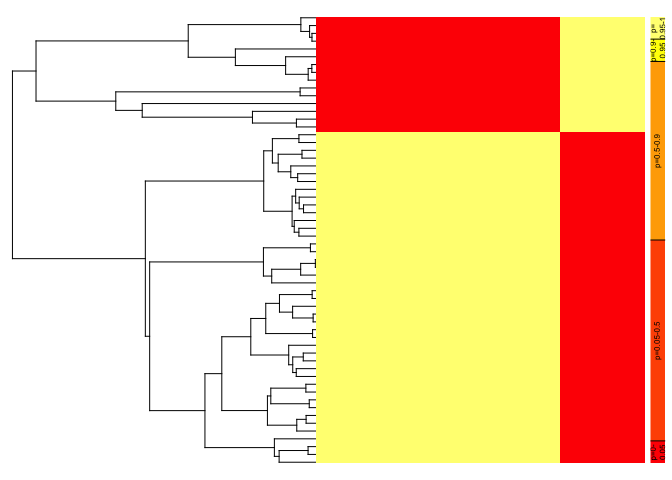
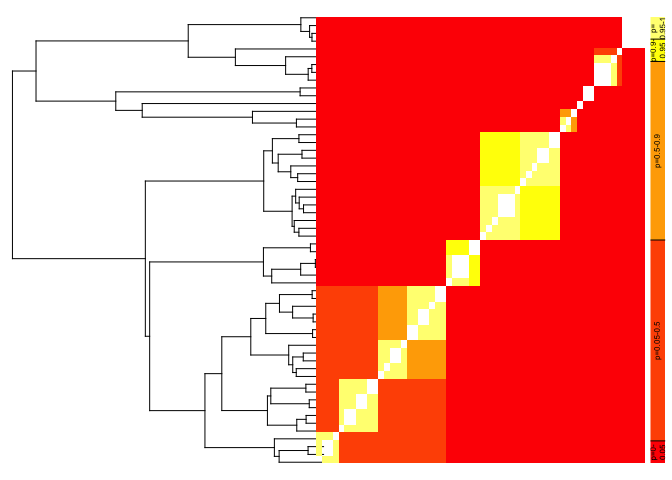
update readme

Changed region(s): [[0.4688, 0.0312, 0.9688, 0.9688]]

diff --git a/README.md b/README.md
@@ -24,15 +24,29 @@ You can install the development version from
 devtools::install_github("arleyc/sGMYC")
 ```
 
-## Example: full GMYC analysis vs. subsampling with sGMYC
+## Example: full analysis with bGMYC vs. subsampling with sGMYC
 
-1)  Full analysis with bGMYC
+1)  First, let’s load an example dataset (hypotree) included with the
+    sGMYC package:
 
 ``` r
 library(sGMYC)
 
 data("hypotree")
 
+ape::print.phylo(hypotree)
+#> 
+#> Phylogenetic tree with 58 tips and 57 internal nodes.
+#> 
+#> Tip labels:
+#>   11281H_Colinas, 11291H_Colinas, 12184H_12185Hraba, 12187_12186_12243Hraba, 164H_Silvania, 167H_19222_Silvania_Uberlandia, ...
+#> 
+#> Rooted; includes branch lengths.
+```
+
+2)  Next, we use bGMYC to implement a full Bayesian GMYC analysis:
+
+``` r
 library(bGMYC)
 #> Loading required package: ape
 #> 
@@ -41,7 +55,7 @@ library(bGMYC)
 #> 
 #>     spec.probmat
 
-fullgmyc<-bgmyc.singlephy(hypotree, mcmc=10000, burnin=2500, thinning=50)
+fullgmyc<-bgmyc.singlephy(hypotree, mcmc=10000, burnin=1000, thinning=100)
 #> You are running bGMYC on a single phylogenetic tree.
 #> This tree contains  58  tips.
 #> The Yule process rate change parameter has a uniform prior ranging from  0  to  2 .
@@ -50,7 +64,7 @@ fullgmyc<-bgmyc.singlephy(hypotree, mcmc=10000, burnin=2500, thinning=50)
 #> The MCMC will start with the Yule parameter set to  1 .
 #> The MCMC will start with the coalescent parameter set to  0.5 .
 #> The MCMC will start with the threshold parameter set to  50 . If this number is greater than the number of tips in your tree, an error will result.
-#> Given your settings for mcmc, burnin and thinning, your analysis will result in  150  samples being retained.
+#> Given your settings for mcmc, burnin and thinning, your analysis will result in  90  samples being retained.
 #> !!!!!!!!!!!!!!!!!!!!!!!!!!!!!!!!!!!!!!!!!!!!!!!!!!!!!!!!!!!!
 #> is.binary.tree() is deprecated; using is.binary() instead.
 #> 
@@ -68,20 +82,32 @@ fullgmyc<-bgmyc.singlephy(hypotree, mcmc=10000, burnin=2500, thinning=50)
 #> 100 % 
 #> acceptance rates 
 #>  py pc th 
-#>  0.8145 0.762 0.3514
+#>  0.8077 0.7605 0.3469
 
+#Calculate matrix of conspecificity probabilities
 fullgmyc.probmat<-bGMYC::spec.probmat(fullgmyc)
 
+# Calculate a point estimate of the number of species
+length(bgmyc.point(fullgmyc.probmat,0.05))
+#> [1] 8
+```
+
+3)  Based on cutoff value of PP=0.05, bGMYC estimates 8 species; next,
+    we can use a heatmap plot to display the probabilities of
+    conspecificity:
+
+``` r
+#Plot heatmap of conspecificity probabilities
 plot.bgmycprobmat(fullgmyc.probmat,hypotree)
 ```
 
-<img src="man/figures/README-example1-1.png" width="100%" />
+<img src="man/figures/README-example3-1.png" width="100%" />
 
-2)  Subsampling with sGMYC
+4)  Now, let’s do subsampling with sGMYC using two samples from each of
+    the species originally estimated with the splits package:
 
 ``` r
-
-myres<-sGMYC(hypotree)
+myres<-sGMYC(hypotree,subsamp=2,nreps=100)
 #> Subsampling of tree 1, Done!
 #> 
 #>  Number of species in full analysis vs. after subsampling 
@@ -92,7 +118,13 @@ myres<-sGMYC(hypotree)
 #> $`Tree 1`
 #>   #species #reps
 #> 1        2   100
+```
 
+5)  sGMYC estimates 2 species across all 100 subsampling replicates. We
+    can also plot a heatmap that summarizes the variation in species
+    limits based on subsampling:
+
+``` r
 #Calculate matrix of conspecificity probabilities
 
 myprobmat<-sGMYC::spec.probmat(myres)
@@ -102,7 +134,7 @@ myprobmat<-sGMYC::spec.probmat(myres)
 plot.bgmycprobmat(myprobmat,hypotree)
 ```
 
-<img src="man/figures/README-example2-1.png" width="100%" />
+<img src="man/figures/README-example5-1.png" width="100%" />
 
 ``` r
 #Species delimitation with subsampling using multiple trees and computer cores
